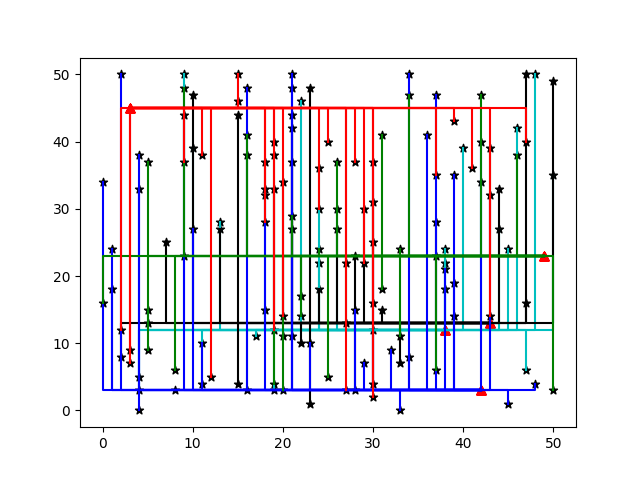
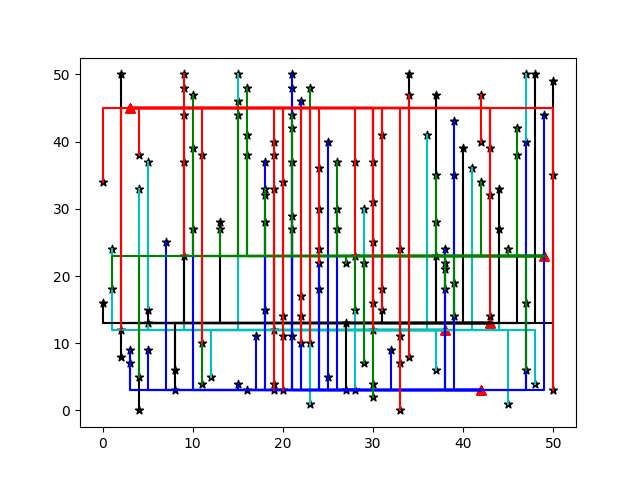
ok

diff --git a/algorithms/DistToBattery.py b/algorithms/DistToBattery.py
@@ -20,13 +20,12 @@ def first_algorithm():
     Connects each house to the closest battery based on distance 
     and uses the hillclimber algorithm to find the optimal solution.
     """
-    
+   
     # houses that are currently not being used because the battery is full
     unused_houses = []
 
-
-    # random shuffle all houses
-    random.shuffle(houses)
+    # total costs for the cables
+    total_costs = 0
 
     random.shuffle(houses)
     
@@ -39,7 +38,10 @@ def first_algorithm():
         keep_track = []
 
         for battery in batteries:
-           
+
+            # costs for all cables connected to the current battery
+            battery_costs = 0
+
             # battery has sufficient capacity
             if battery.status(house) == True:
 
@@ -73,43 +75,13 @@ def first_algorithm():
             battery.connect_house(house)
 
             # adds costs of cables for this house to the battery
-            # house_costs = house.add_costs(battery)
-            battery.add_house_info(house)
+            house.add_costs(battery)
             house.route_calc(battery)
-            
+            total_costs += house.costs
 
             # no unused houses left, applies hillclimber to optimalize connections
-            if len(unused_houses) == 0:
-                # for i in range(100):
-                helper.hillclimber(batteries, houses)
-
-    # total costs for the cables
-    total_costs = 0
-
-    # for battery in batteries:
-    #     cables_coordinates = []
-    #     for house in battery.houses_to_battery:
-    #         for cable in house.cables:
-    #             if cable not in cables_coordinates:
-    #                 cables_coordinates.append(cable.cable_x, cable.cable.y)
-    #     print(cables_coordinates)
-            # for tuple in house.cables:
-            #     print(tuple)
-            #     if tuple not in cables_coordinates:
-            #         print(f"new: {tuple}")
-                    # print(cables_coordinates)
-                    # cables_coordinates.append(tuple)
-        
-        # for j in cables_coordinates:
-        #     print(j)
-
-        # print(cables_coordinates)
-        # # print(cables_coordinates)
-
-        # number_of_cables = len(cables_coordinates) - 1
-        # print(number_of_cables)
-        # costs_battery = number_of_cables * 9 + 5000
-        # total_costs = total_costs + costs_battery
+            if len(unused_houses) <= 1:
+                helper.hillclimber(batteries, houses)   
 
     return total_costs
 
@@ -138,10 +110,10 @@ def plot_first_algorithm():
 
             ax = plt.subplot()
 
-            houses_plt = ax.scatter(house.x, house.y, color='k', marker='*')
+            houses_plt = ax.scatter(house.x, house.y, color='k', marker='p')
             batteries_plt = ax.scatter(battery.x, battery.y, color='r', marker='^')
 
-    fig = plt.savefig("hillclimberfigure.png")
+    fig = plt.savefig("hillclimberfigure1.png")
     return fig
  
 def run_output():
@@ -155,9 +127,7 @@ def run_output():
             for cable_point in curr_house.cables:
                 print(cable_point)
 
-def run_multiple_times():
 
-<<<<<<< HEAD
 def run_multiple():
 
     curr = copy.deepcopy(first_algorithm())
@@ -173,47 +143,22 @@ def shared_costs():
 
     count = 0
 
-    x = []
-    y = []
-
     shared_cables = []
 
     for house in houses:
 
         for cable in house.cables:
             print(cable)
-            # x.append(cable.cable_x)
-            # y.append(cable.cable_y)
-            # if cable.cable_x in x and cable.cable_y in y:
-            #     count += 1
-            #     shared_cables.append(cable.cable_x)
-            #     print('ok')
-            #     shared_cables.append(cable.cable_y)
+            x.append(cable.cable_x)
+            y.append(cable.cable_y)
+            if cable.cable_x in x and cable.cable_y in y:
+                count += 1
+                shared_cables.append(cable.cable_x)
+                print('ok')
+                shared_cables.append(cable.cable_y)
         
 
-    # print(count)
-    # print(shared_cables)
+    print(count)
+    print(shared_cables)
           
 
-=======
-    
-    curr_total_costs = 50000
-    
-    for i in range(100):
-        
-        new_total_costs = first_algorithm()
-        
-
-        if new_total_costs < curr_total_costs:
-            curr_total_costs = new_total_costs
-
-        print(curr_total_costs)
-        for house in houses:
-            house.clear_house()
-            for battery in batteries:
-                battery.clear(house)
-        
-              
-    # a = first_algorithm()
-    # print(a)
->>>>>>> a2c619419cb155027b21e9fe13e7596277da1df4

diff --git a/algorithms/helper.py b/algorithms/helper.py
@@ -3,10 +3,10 @@ import models.load_data
 
 def hillclimber(batteries, houses):
     """
-    Hillclimber, goes through every possible connection already made
+    Hillclimber, goes through every connection already made
     to check if there are any better alternatives
     """
-    
+
     for next_house in houses:
 
         for battery in batteries:
@@ -16,21 +16,17 @@ def hillclimber(batteries, houses):
             for curr_house in curr_battery.houses_to_battery:
 
                 if next_house not in curr_battery.houses_to_battery:
-
-                    # if curr_house is not next_house and curr_house.calc_costs(curr_battery) > next_house.calc_costs(curr_battery):
                         
                     next_battery = next_house.connected_to
 
                     if logic_swap(curr_battery, curr_house, next_battery, next_house) == True:
 
-                        # if curr_house.maxoutput + curr_battery.capacity > next_house.maxoutput and next_house.maxoutput + next_battery.capacity > curr_house.maxoutput:
                         if output_swap(curr_battery, curr_house, next_battery, next_house) == True:
-
                             # STAP 1:
-                            # if curr_house in curr_battery.houses_to_battery:
+                            if curr_house in curr_battery.houses_to_battery:
                             # remove current house van current battery
-                            curr_battery.remove_house(curr_house)
-                            curr_house.deconnect_to_battery(curr_battery)
+                                curr_battery.remove_house(curr_house)
+                                curr_house.deconnect_to_battery(curr_battery)
 
                             # connect next house aan current battery
                             curr_battery.connect_house(next_house)
@@ -44,44 +40,27 @@ def hillclimber(batteries, houses):
                             # connect current house aan next battery
                             next_battery.connect_house(curr_house)
                             curr_house.connect_to_battery(next_battery)
+                                                        
 
+# def run_swap(curr_battery, curr_house, next_battery, next_house):
+#     # STAP 1:
+#     # if curr_house in curr_battery.houses_to_battery:
+#     # remove current house van current battery
+#     curr_battery.remove_house(curr_house)
+#     curr_house.deconnect_to_battery(curr_battery)
 
-def hillclimbertwo(batteries, houses):
+#     # connect next house aan current battery
+#     curr_battery.connect_house(next_house)
+#     next_house.connect_to_battery(curr_battery)
 
-    for j in range(1000):
+#     # STAP 2:
+#     # remove next house van next battery
+#     next_battery.remove_house(next_house)
+#     next_house.deconnect_to_battery(next_battery)
 
-        for next_house in houses:
-
-            for curr_battery in batteries:
-
-                for curr_house in curr_battery.houses_to_battery:
-
-                    if next_house not in curr_battery.houses_to_battery:
-                        next_battery = next_house.connected_to
-
-                        if output_swap(curr_battery, curr_house, next_battery, next_house):
-                        
-                            # STAP 1:
-                            # if curr_house in curr_battery.houses_to_battery:
-                            # remove current house van current battery
-                            curr_battery.remove_house(curr_house)
-                            curr_house.deconnect_to_battery(curr_battery)
-
-                            # connect next house aan current battery
-                            curr_battery.connect_house(next_house)
-                            next_house.connect_to_battery(curr_battery)
-
-                            # STAP 2:
-                            # remove next house van next battery
-                            next_battery.remove_house(next_house)
-                            next_house.deconnect_to_battery(next_battery)
-
-                            # connect current house aan next battery
-                            next_battery.connect_house(curr_house)
-                            curr_house.connect_to_battery(next_battery)
-                             
-                
-
+#     # connect current house aan next battery
+#     next_battery.connect_house(curr_house)
+#     curr_house.connect_to_battery(next_battery)                                
 
 
 def output_swap(curr_battery, curr_house, next_battery, next_house):

diff --git a/main.py b/main.py
@@ -1,7 +1,6 @@
 import algorithms.DistToBattery
 import algorithms.Random
 import algorithms.ConstraintRelexation
-import algorithms.Random_ConstraintRelaxation
 import algorithms.helper
 import algorithms.AlgoritmeTwee
 from data import *
@@ -20,18 +19,10 @@ if len(argv) < 3:
     print("Type in the correct files, f.e: python3 main.py data/dist1_b.csv data/dist1_h.csv")
     exit()
 else:
-    print("Please select an algorithm to run: 1 = Randomize, 2 = HillClimber, 3 = Constraint relaxation, 4 = Random with constraint relaxation")
+    print("Please select an algorithm to run: 1 = Randomize, 2 = HillClimber, 3 = Constraint relaxation")
     print("Please be aware that the first two algorithms both have overlapping cables")
 
     algo_choice = input("Make a choice: ")
-    if algo_choice == '4':
-        algorithms.DistToBattery.run_multiple_times()
-  
-
-    if algo_choice == '0':
-
-        algorithms.DistToBattery.shared_costs()
-
 
     if algo_choice == '1':
         print(algorithms.Random.random_algorithm())
@@ -51,11 +42,11 @@ else:
             algorithms.DistToBattery.run_output()
 
     elif algo_choice == '3':
-        algorithms.ConstraintRelexation.optimum_creating()
+        print(algorithms.ConstraintRelexation.optimum_creating())
+        plot_choice = input("Do you like to see the visualization and output?, Y/N: ")
+        if plot_choice == "Y":
+            algorithms.ConstraintRelexation.constraint_relaxation()
+            algorithms.ConstraintRelexation.run_output()
 
-    elif algo_choice == '4':
-        algorithms.Random_ConstraintRelaxation.constraint_random()
-        
-
-    elif algo_choice not in ['1', '2', '3', '4']:
-        print("Please make a choice between 1, 2, 3 or 4")
+    elif algo_choice not in ['0', '1', '2', '3']:
+        print("Please make a choice between 1, 2 or 3")

diff --git a/models/battery.py b/models/battery.py
@@ -19,22 +19,6 @@ class Battery:
     def __str__(self):
         return f"location:{self.coordinates},\n{self.capacity},\nhouses:"       
 
-
-    def add_house_info(self, house):
-        house_info = {}
-
-        house_info["location"] = house.coordinates
-
-        self.houses.append(house_info)
-
-        house_info["output"] = house.maxoutput
-        
-        self.houses.append(house_info)
-
-        house_info["cables"] = house.cables
-
-        self.houses.append(house_info)
-
     def battery_cost_calculation():
         total_costs_bat = 0
         total_costs_bat = len(batteries) * 5000

diff --git a/models/house.py b/models/house.py
@@ -26,10 +26,9 @@ class House(object):
         x_dist = abs(self.x - battery.x)
         y_dist = abs(self.y - battery.y)
 
-        house_costs = (x_dist + y_dist) * 9 
+        house_costs = (x_dist + y_dist) * 9
 
-        return house_costs
-        # self.costs += house_costs    
+        self.costs += house_costs    
 
     def route_calc(self, battery):
         """

diff --git a/algorithms/ConstraintRelexation.py b/algorithms/ConstraintRelexation.py
@@ -75,7 +75,6 @@ def optimum_creating():
 
             # adds costs of cables for this house to the battery
             house.add_costs(battery)
-            battery.add_house_info(house)
 
             # no unused houses left, applies hillclimber to optimalize connections
             if len(unused_houses) <= 1:
